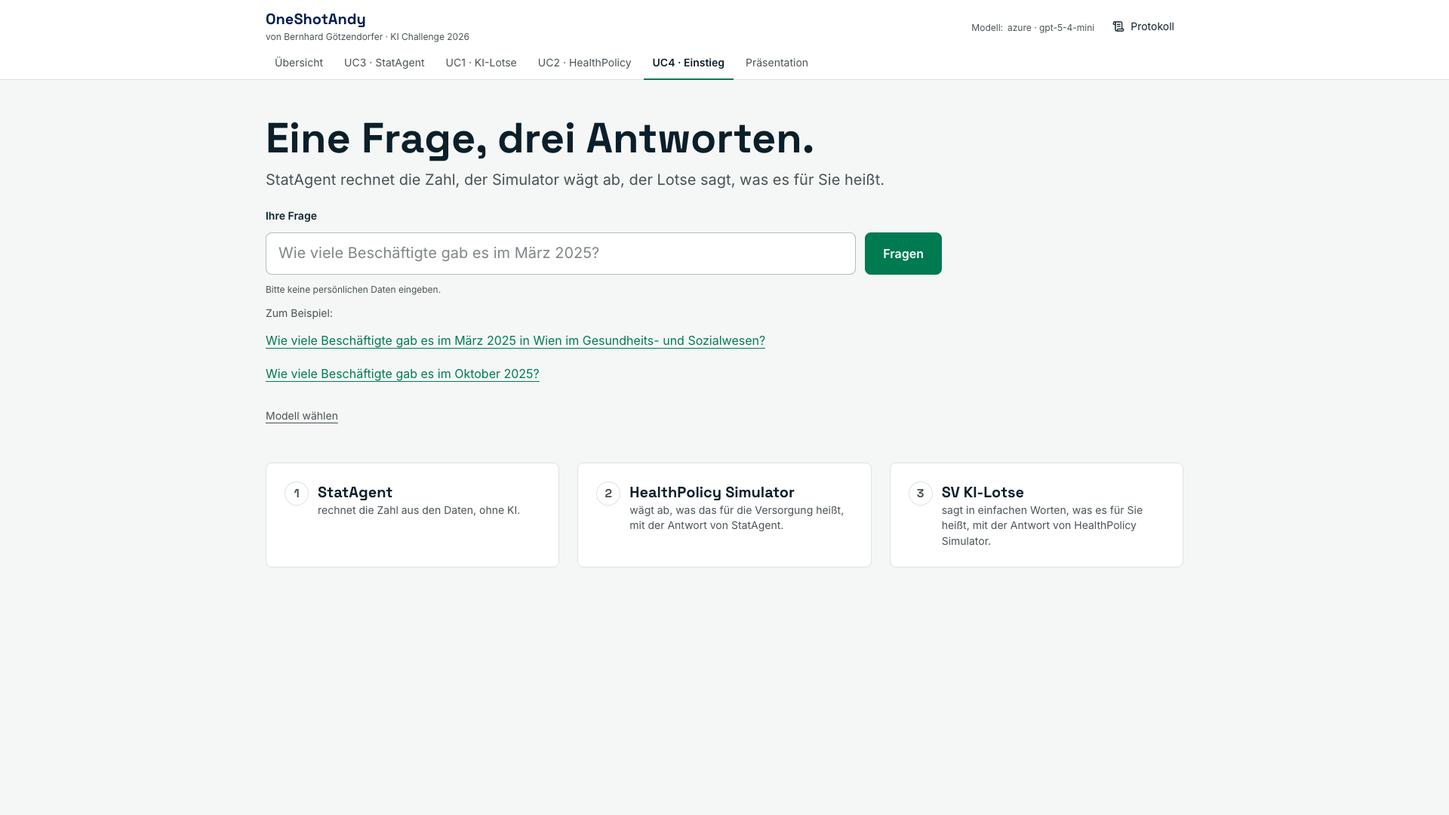
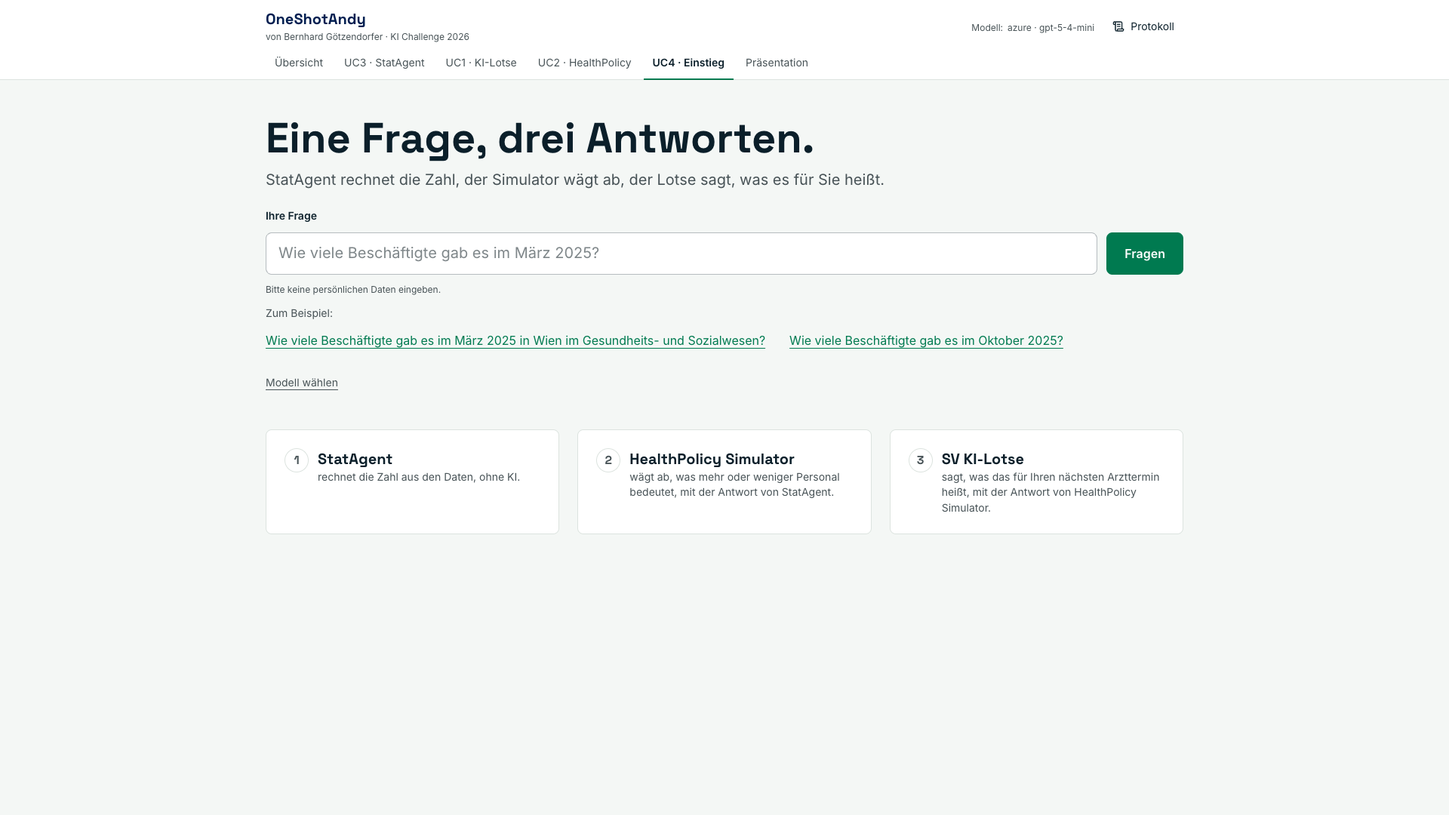
docs(e5): D4 mit der Knopf-Frage, Stand der Kette online gemessen, SC03 und SC11 von live (#141)

diff --git a/docs/praesentation/demo-drehbuch.md b/docs/praesentation/demo-drehbuch.md
@@ -26,7 +26,7 @@ Die Zeiten sind Richtwerte, gemessen wird in der Probe. Wichtig ist die Reihenfo
 
 - **Online über Hotspot** (Owner 05.11.2026). Vorführ-Adresse mit Passwort, Modell Azure. Einen Lauf ohne Netz gibt es nicht. Die Adresse meldet die Lane Vorführung, sie steht nicht im Repo.
 - **Datenbank der Vorführung:** eine eigene Kopie der Abgabe-Datenbank, nie `statistik` selbst, auch nach 09:00 nicht. Die Abgabezahlen sind auf der eigenen Datenbank gerechnet, online läuft nur die Vorführung. So bleibt die Abgabe jederzeit nachrechenbar.
-- **Klickwege für D1 und D2:** Beide laufen im Browser auf der Vorführ-Adresse. Wörtlich trägt sie Bernhard hier ein, sobald die Lane Vorführung Pfad und Texte gemeldet hat (`docs/betrieb/vorfuehrung.md`). Bis dahin zeigt dieses Drehbuch den Weg im Terminal.
+- **Klickwege für D1 und D2:** Beide laufen im Browser auf der Vorführ-Adresse, Seite `/uc3/auftrag` (`docs/betrieb/vorfuehrung.md`). Die Knöpfe stehen hier wie im Code auf main, der Durchlauf auf dem aktuellen Stand kommt in der Probe. Der Weg im Terminal bleibt die Reserve.
 - **Was die Zahlen im D2 zeigen:** D1 läuft vor D2. Die Zahlen nachher kommen aus der Probe auf dem Vorschlag, ein Monat auf dem neuen Regelsatz wird live nicht gerechnet. Offene Vorschläge nacheinander ablehnen, zwei können auf denselben neuen Regelsatz zielen (#169).
 - **Zwischen zwei Durchläufen:** Zurücksetzen nach `docs/betrieb/vorfuehrung.md`, damit die Proben nicht in der Vorführung stehen.
 
@@ -38,8 +38,8 @@ Standard ist Oktober 2025. Alternative ist März 2025. Bernhard wählt vorab ein
 
 - Sagt Bernhard (Einstieg auf `/uc3`): „24 Monatslieferungen, eine Zahl pro Monat. Zwei Monate hat das Programm angehalten, statt sie zu veröffentlichen. Das zeige ich Ihnen zuerst.“
 
-- CLI-Weg (Standard): `uv run uc3 lauf --lieferung 2025-10`, danach `uv run uc3 laeufe`. Bericht: `abgabe/qualitaetsberichte/2025-10.md`. Alternative: `--lieferung 2025-03` und `abgabe/qualitaetsberichte/2025-03.md`.
-- Klickweg: Seite `/uc3`, dann der gewählte Monat. Dort steht der Qualitätsbericht.
+- Reserve im Terminal: `uv run uc3 lauf --lieferung 2025-10`, danach `uv run uc3 laeufe`. Bericht: `abgabe/qualitaetsberichte/2025-10.md`. Alternative: `--lieferung 2025-03` und `abgabe/qualitaetsberichte/2025-03.md`.
+- Klickweg: `/uc3/auftrag`, unten „Einen Monat rechnen“, Monat wählen, dann „Monat und Qualitätsbericht ansehen“. Gemessen für Oktober 2025: 92,9 s und 102,0 s (Lane Vorführung).
 - Sagt Bernhard (Oktober 2025): „Es kommen 313.154 gegen 394.200 im Vormonat (F17). 78.949 Verhältnisse fehlen in der Lieferung (F11). Das Programm hält den Monat an und markiert ihn als vorläufig.“
 - Sagt Bernhard (März 2025): „März 2025 hat zwei Fehler auf einmal. 1.663 Zeilen sind doppelt (F8), und die freien Dienstverträge fehlen ganz, 1.492 Verhältnisse (F9). Das Programm hält den Monat an und markiert ihn als vorläufig.“
 - Jury muss sehen (Oktober 2025):
@@ -61,7 +61,7 @@ Folie 8 öffnen (`/praesentation?folie=8`, Tab liegt bereit), Stichpunkte: Skrip
 
 ### D2 Änderung per Sprache (5:00–9:30)
 
-Bewertet in Bereich 5 („Live-Änderung per Sprache gelingt“, 20 Punkte). „Per Sprache“ heißt: Die Anweisung ist ein Satz in Alltagssprache, den Bernhard ins Terminal tippt (Owner-Wort 05.11.2026 19:3x).
+Bewertet in Bereich 5 („Live-Änderung per Sprache gelingt“, 20 Punkte). „Per Sprache“ heißt: Die Anweisung ist ein Satz in Alltagssprache, den Bernhard tippt (Owner-Wort 05.11.2026 19:3x).
 
 **Datenbank:** Die ganze Demo läuft gegen die Kopie `statistik_vorfuehrung` (`UC3_DATABASE_URL` auf die Kopie), nie gegen `statistik`. Die Freigabe schreibt einen Commit; deshalb läuft D2 auf einem eigenen Demo-Branch im Checkout des Vortragsrechners, der Commit wird nie gepusht. Geprobt wird vorher nur auf `statistik_probe`.
 
@@ -75,25 +75,27 @@ Bewertet in Bereich 5 („Live-Änderung per Sprache gelingt“, 20 Punkte). „
 - Sagt Bernhard (Entwurf, Wortlaut stimmt er um 07:00 ab, FAQ Frage 11): „Die drei Aufträge der Aufgabe habe ich in Sätzen gestellt, die Agenten schrieben Vorschläge. Die Freigaben hat in meinem Auftrag eine KI-Sitzung eingegeben, ich habe sie um 18:22 mit meinem Namen bestätigt. Das steht offen im Protokoll.“
 - Sagt Bernhard (bei 1): „Der Gesamtbestand bleibt bei 392.236. Die Kategorien verschieben sich, zum Beispiel Angestellte von 0 auf 236.961.“
 
-**Teil 2, live per Sprache (6:00–9:30):** Laut Aufgabenstellung gibt die Jury eine kleine, unbekannte Änderung vor. Bernhard fragt: „Nennen Sie mir eine Regel, die ich jetzt ändern soll.“ Er wiederholt den Wunsch der Jury in einem Satz und tippt diesen Satz. Die vier geübten Änderungen im Fragenkatalog Teil B decken die naheliegenden Wünsche ab (Altersgrenze, Geburtsmonat 13, Schwelle Bestandsrückgang, Spaltentausch). Nennt die Jury nichts, nimmt Bernhard B2.
+**Teil 2, live per Sprache (6:00–9:30):** Laut Aufgabenstellung gibt die Jury eine kleine, unbekannte Änderung vor. Bernhard fragt: „Nennen Sie mir eine Regel, die ich jetzt ändern soll.“ Er wiederholt den Wunsch der Jury in einem Satz und tippt diesen Satz. Die vier geübten Änderungen im Fragenkatalog Teil B decken die naheliegenden Wünsche ab (Altersgrenze, Geburtsmonat 13, Schwelle Bestandsrückgang, Spaltentausch). Nennt die Jury nichts, nimmt Bernhard den Standard-Satz unten.
 
-1. Im Terminal tippen: `uv run uc3 agent "<Satz>" --probe JJJJ-MM` und Enter. Im Satz den Zielwert nennen. Ersatz B2: `uv run uc3 agent "Rechne bei Geburtsmonat 13 nur mit der Differenz der Jahre (Jahresdifferenz) statt mit dem 1. Juli." --probe 2026-06`. Der Agent schreibt einen Vorschlag. Solange der Fix aus !150 nicht auf main ist, nie mit `--probe 2025-03` oder `--probe 2025-10` proben: Dort zeigt die Probe eine falsche Gesamtzahl.
-2. `uv run uc3 vorschlag zeigen <id>`: Regel-Unterschied und Zahlen vorher und nachher. Bei B2: `R5_alter`, `geburtsmonat_13` von `ersatz:07-01` auf `jahresdifferenz`.
-3. `uv run uc3 freigabe <id> --name "Bernhard Götzendorfer"`, dann `uv run uc3 protokoll --zeigen`.
+**Standard-Satz:** „Beamte zählen nicht mehr mit“, Monat Juli 2026. Die Seite zeigt: Gesamt 407.604 → 395.315, „Gesamt ändert sich um −12.289“, Beamte 12.289 → 0, Angestellte und Arbeiter gleich. Der Vorschlag dauert rund 145 s. Rücknahme: neuer Auftrag „Nimm Vorschlag <n> zurück“, +12.289, 93 s. Einmal gemessen von der UI-Regie, 05.11.2026 22:44 bis 22:56, noch vor !229 und !234. Der Satz braucht !150: Ausschluss und Rücknahme stehen noch nicht auf main. Ist !150 beim Merge-Stopp nicht auf main, gilt um 06:45 Teil 1 allein.
+
+1. `/uc3/auftrag`: Satz tippen, Monat für die Zahlen wählen, „Vorschlag schreiben lassen“. Im Satz den Zielwert nennen. Bei einer Änderung an Geburtsmonat 13 Juni 2026 wählen. Reserve im Terminal: `uv run uc3 agent "<Satz>" --probe JJJJ-MM`, zum Beispiel B2: `uv run uc3 agent "Rechne bei Geburtsmonat 13 nur mit der Differenz der Jahre (Jahresdifferenz) statt mit dem 1. Juli." --probe 2026-06`. Der Agent schreibt einen Vorschlag. Solange der Fix aus !150 nicht auf main ist, nie mit `--probe 2025-03` oder `--probe 2025-10` proben: Dort zeigt die Probe eine falsche Gesamtzahl.
+2. „Vorher und nachher ansehen, dann entscheiden“: Regel-Unterschied und Zahlen vorher und nachher. Reserve: `uv run uc3 vorschlag zeigen <id>`. Bei B2: `R5_alter`, `geburtsmonat_13` von `ersatz:07-01` auf `jahresdifferenz`.
+3. Vor- und Nachnamen eintragen, freigeben. Die Seite nennt den Commit. Reserve: `uv run uc3 freigabe <id> --name "Bernhard Götzendorfer"`, dann `uv run uc3 protokoll --zeigen`.
 
 - Sagt Bernhard (bei 1): „Ich sage dem Agenten in einem Satz, was er ändern soll.“
-- Sagt Bernhard (bei 2): „Hier ist, was sich ändern würde, vorher und nachher. Wirksam wird es erst mit meinem Namen.“ Bei B2 zusätzlich: „Der Gesamtbestand bleibt gleich, im Juni 2026 wechseln wenige Verhältnisse die Altersgruppe.“
-- Rückfall Agent: Kommt „Kein Vorschlag“, sendet Bernhard den Satz einmal neu und nennt den Zielwert ausdrücklich. Kommt er wieder, sagt er „Das zeige ich Ihnen mit einer geübten Änderung“ und nimmt B2. Scheitert auch das, bleibt es beim Rückblick aus Teil 1.
-- Will die Jury etwas, das eine neue Regel oder Code braucht (keine Änderung eines Parameters), sagt Bernhard: „Das wäre eine neue Regel. Der Agent schlägt sie vor, freigeben würde ich sie erst nach einer Probe.“ und nimmt B2.
+- Sagt Bernhard (bei 2): „Hier ist, was sich ändern würde, vorher und nachher. Wirksam wird es erst mit meinem Namen.“ Bei B2 zusätzlich: „Der Gesamtbestand bleibt gleich. Die Regel ändert nur das Alter, diese Tabelle zählt Beschäftigungskategorien, deshalb bewegt sich hier keine Zahl.“
+- Rückfall Agent: Kommt „Kein Vorschlag“, sendet Bernhard den Satz einmal neu und nennt den Zielwert ausdrücklich. Kommt er wieder, sagt er „Das zeige ich Ihnen mit einer geübten Änderung“ und nimmt den Standard-Satz. Eine Rückfrage statt eines Vorschlags ist möglich, das ist nicht gemessen. Scheitert auch das, bleibt es beim Rückblick aus Teil 1.
+- Will die Jury etwas, das eine neue Regel oder Code braucht (keine Änderung eines Parameters), sagt Bernhard: „Das wäre eine neue Regel. Der Agent schlägt sie vor, freigeben würde ich sie erst nach einer Probe.“ und nimmt den Standard-Satz.
 - Azure antwortet nicht: Hotspot wechseln (10 s), Satz noch einmal. Geht es dann nicht, reicht Teil 1 als Beleg, und Bernhard sagt das offen.
 
 **Jury muss sehen:**
 - Die Anweisung als Satz in Alltagssprache.
-- Regel-Diff und Zahlen vorher und nachher (F19 für Auftrag 1, live für B2).
+- Regel-Diff und Zahlen vorher und nachher (F19 für Auftrag 1, live für den Standard-Satz).
 - Freigabe mit Vor- und Nachname, „Team“ wird abgelehnt (`shared/py/plattform/freigabe.py`, `pruefe_name`).
 - Eintrag im Protokoll (F26).
 
-**Stand der Proben:** 05.11.2026 17:56 bis 17:58 auf main 321a7176: B1, B2, B3 ohne Vorschlag oder abgebrochen. 18:20 bis 18:25 mit dem Code von !50: B2 dreimal von drei gültig. Das war mit 2025-03. Am selben Abend maß die UC3-Lane dort 396.762 → 395.292 (−1.470) bei einer reinen Altersänderung: In der Probe fehlen die Fortschreibungen von 2025-03 und 2025-10, der Fix kommt mit !150, die Abgabe ist nicht betroffen. Mit 2026-06 bleibt die Gesamtzahl bei 403.301 (einmal gemessen von der UC3-Lane, 22:40, Commit d888e09, bis zum Vorschlag), dreimal gegen die Vorführ-Instanz ist noch offen. Juli bis Dezember zeigen bei B2 keinen Unterschied, das ist fachlich richtig.
+**Stand der Proben:** 05.11.2026 17:56 bis 17:58 auf main 321a7176: B1, B2, B3 ohne Vorschlag oder abgebrochen. 18:20 bis 18:25 mit dem Code von !50: B2 dreimal von drei gültig. Das war mit 2025-03. Am selben Abend maß die UC3-Lane dort 396.762 → 395.292 (−1.470) bei einer reinen Altersänderung: In der Probe fehlen die Fortschreibungen von 2025-03 und 2025-10, der Fix kommt mit !150, die Abgabe ist nicht betroffen. Mit 2026-06 bleibt die Gesamtzahl bei 403.301 (einmal gemessen von der UC3-Lane, 22:40, Commit d888e09, bis zum Vorschlag). Im Browser zeigt die Tabelle dort keine bewegte Zahl, sie zählt Beschäftigungskategorien. Juli bis Dezember zeigen bei B2 keinen Unterschied, das ist fachlich richtig.
 
 - Nie `freigabe` üben: Es committet ins Repo, einen Reset gibt es nicht. Proben nur gegen `statistik_probe`.
 - Entscheid in `probe.md` (Fr 06:45): Teil 1 allein oder Teil 1 und Teil 2.
@@ -144,9 +146,9 @@ Fragt die Jury so etwas, sagt Bernhard: „Das zeige ich Ihnen mit einer Abfrage
 
 ### D4 Gemeinsamer Einstieg (13:00–14:00)
 
-- Die Wien-Frage in `/uc4`: „Wie viele Menschen arbeiten in Wien im Gesundheits- und Sozialwesen (März 2025), und was heißt das für Wartezeiten beim Arzt?“
-- Sollwert für UC3: **7.498** Beschäftigungsverhältnisse (F18), Wien, ÖNACE 2025 Abschnitt R (Gesundheits- und Sozialwesen), Stichtag 31.03.2025, mit Beleg. UC2 liefert die Abwägung, UC1 die Erklärung in einfacher Sprache.
-- Die Frage stammt aus dem Abgleich der Review-Bank. Die Wartezeiten selbst kann UC3 nicht beantworten, es kennt nur Beschäftigte.
+- Die Wien-Frage in `/uc4` mit einem Klick auf das erste Beispiel: „Wie viele Beschäftigte gab es im März 2025 in Wien im Gesundheits- und Sozialwesen?“ Sie steht wörtlich auf Folie 9.
+- Sollwert für UC3: **7.498** Beschäftigungsverhältnisse (F18), Wien, ÖNACE 2025 Abschnitt R (Gesundheits- und Sozialwesen), Stichtag 31.03.2025, mit Beleg. Der Simulator sagt, was mehr oder weniger Personal für Wartezeit und Betreuung heißt, der Lotse sagt es für den nächsten Arzttermin (fester Text, an der Karte steht „Fester Text“). Dauer online 9 bis 12 s.
+- **Nicht „Wartezeiten“ in die Frage nehmen.** Dann läuft der Simulator über das Rechenmodell und nennt „Wartezeit −22,2 %, Mehrkosten 128,2 Mio. Euro pro Jahr“ (online gemessen 05.11.2026 23:08, 22 s). Das ist eine Schätzung, kein Beleg aus dem Register. Fragt die Jury danach, sagt Bernhard: „Das ist ein Rechenmodell ohne KI. Es schätzt das fünfte Jahr, je nach Annahmen −62,8 % bis −8,6 %. Das ist keine gemessene Zahl.“
 - Was von UC1 und UC2 läuft, steht im Tagesstand des Fragenkatalogs (Teil C, „Läuft der gemeinsame Einstieg schon?“). Bernhard sagt nur, was dort steht.
 - Nur wenn die Wien-Frage um 06:45 echt läuft (nicht im Testmodus). Sonst entfällt D4 ohne Ersatz.
 - **Entscheid am Fr 06:45.** Wer entscheidet: Lead mit Bernhard. Ergebnis in `probe.md` eintragen.
@@ -185,7 +187,7 @@ Jeder Punkt wird abgehakt, sobald er geprüft ist. Uhrzeit nur aus der Uhr (`TZ=
 - [ ] D1: Monat gewählt (2025-10 oder 2025-03) und in `probe.md` eingetragen.
 - [ ] D3: Die acht geprüften Fragen auf `/uc3/fragen` und mit `uv run uc3 frage "…"` geprobt, jede Zahl gegen die Sollzahl der Tabelle. SQL A1 bis A3 als Rückfall bereit, `<regelstand>` eingesetzt.
 - [ ] D4: Sollwert 7.498 (F18) gegen die Abfrage im Belegregister geprüft. Testmodus-Ansage bereit.
-- [ ] D2: `uv run uc3 vorschlag zeigen 24` und `uv run uc3 protokoll --zeigen` laufen auf dem Vortragsrechner. B2 nur, wenn es mit `--probe 2026-06` dreimal gegen `statistik_vorfuehrung` geklappt hat. Nie `freigabe` geübt.
+- [ ] D2: `uv run uc3 vorschlag zeigen 24` und `uv run uc3 protokoll --zeigen` laufen auf dem Vortragsrechner. B2 zeigt auf der Seite keine bewegte Zahl (im Browser gemessen, Lane Vorführung). Nie `freigabe` geübt.
 - [ ] Datenbank: `UC3_DATABASE_URL` zeigt auf `statistik_vorfuehrung`, nicht auf `statistik`. Prüfung ohne Wert: Datenbankname im Kopf der App oder `uv run uc3 laeufe` liefert die 24 Läufe der Kopie. Checkout steht auf einem Demo-Branch, der für diesen Lauf frisch ab main angelegt ist.
 - [ ] Protokolleintrag der Freigabe von Auftrag 1 (05.11.2026 16:54) gefunden, Fenster für den Rückblick bereit.
 - [ ] Entscheid D4 um 06:45 getroffen und in `probe.md` eingetragen.

diff --git a/docs/praesentation/fragenkatalog.md b/docs/praesentation/fragenkatalog.md
@@ -197,7 +197,9 @@ Der Vorschlag kommt vom Modell. Welche Regel und welchen Wert es wählt, zeigt `
 
 **Was der Vorschlag ändert:** Regel `R5_alter`, Parameter `geburtsmonat_13` von `ersatz:07-01` auf `jahresdifferenz`. Der Agent darf für diesen Parameter nur `jahresdifferenz` oder `unbekannt` vorschlagen (`uc3/statagent/agenten/koordinator.py`, Zeile 81). Einen anderen Ersatztag wie den 1. Jänner weist er ab.
 
-**Erwartete Wirkung:** Der Gesamtbestand ändert sich nie, nur das Alter einzelner Verhältnisse mit Monat 13. Für August 2024 gilt Jahresdifferenz gleich Ersatztag 1. Juli, der Beispielbericht bleibt exakt (F4). Im Juni 2026 liegt der Stichtag vor dem 1. Juli: Mit Jahresdifferenz sind diese Verhältnisse ein Jahr älter, der Vorschlag zeigt wenige verschobene Altersgruppen, der Gesamtbestand bleibt 403.301 (einmal gemessen von der UC3-Lane, 05.11.2026 22:40, Commit d888e09, bis zum Vorschlag). Dreimal gegen die Vorführ-Instanz ist noch offen. Juli bis Dezember zeigen keinen Unterschied, das ist fachlich richtig.
+**Erwartete Wirkung:** Der Gesamtbestand ändert sich nie, nur das Alter einzelner Verhältnisse mit Monat 13. Für August 2024 gilt Jahresdifferenz gleich Ersatztag 1. Juli, der Beispielbericht bleibt exakt (F4). Im Juni 2026 liegt der Stichtag vor dem 1. Juli: Mit Jahresdifferenz sind diese Verhältnisse ein Jahr älter, der Vorschlag zeigt wenige verschobene Altersgruppen, der Gesamtbestand bleibt 403.301 (einmal gemessen von der UC3-Lane, 05.11.2026 22:40, Commit d888e09, bis zum Vorschlag). Juli bis Dezember zeigen keinen Unterschied, das ist fachlich richtig.
+
+**Auf der Seite:** Die Tabelle von „Vorher und nachher ansehen“ zählt Beschäftigungskategorien. In Juni und Juli 2026 zeigt sie überall gleiche Werte und den Satz „Bei den Beschäftigungskategorien ändert die Probe keine Zahl, die Gesamtzahl bleibt gleich“ (im Browser gemessen, Lane Vorführung; der Vorschlag dauert rund 145 s). Das ist kein Fehler, sieht aber nach nichts aus: B2 nur nehmen, wenn die Jury genau das wünscht.
 
 **Falle:** Mit `--probe 2025-03` zeigt die Probe 396.762 → 395.292 (−1.470), obwohl sich nur das Alter ändert. In der Probe fehlen die Fortschreibungen von 2025-03 und 2025-10. Der Fix kommt mit !150, die Abgabe ist nicht betroffen.
 
@@ -350,7 +352,7 @@ Der Vorschlag kommt vom Modell. Welche Regel und welchen Wert es wählt, zeigt `
 **Kurzantwort:** Wir nennen fünf Grenzen offen.
 Erstens sind die Daten synthetisch.
 Zweitens hängt das Alter bei Geburtsmonat 13 vor Juli von der Antwort der Fachabteilung auf Rückfrage R1 ab (F4).
-Drittens sind die Pensionsmeldungen der Träger nicht eingelesen.
+Drittens fehlen bei den Pensionen die öffentlich Bediensteten, die frühere BVA meldet keine. Die Zahlen sind vorläufig, bis sie mit Namen freigegeben sind.
 Viertens zählen wir auf ÖNACE-Abschnitt und Bundesland, nicht bis zum 5-Steller und nicht nach Bezirk oder Gemeinde. Die Tabelle für weitere Ebenen ist angelegt.
 Fünftens steht die Altersgrenze 110 ohne amtlichen Standard. Sie ist ein Parameter und lässt sich ändern (F5).
 
@@ -378,7 +380,7 @@ Fünftens steht die Altersgrenze 110 ohne amtlichen Standard. Sie ist ein Parame
 
 #### Stand (was vom Zielbild auf main ist)
 
-Code gemessen am 05.11.2026 18:54 auf main `1a8c645`. Betrieb gemessen am 05.11.2026 19:40 und 20:00 auf der Online-Demo (POST `/api/uc4/frage` mit der Wien-Frage), dazu der Prüfpunkt des Leads um 20:00. Vor Fr 07:00 noch einmal messen. Nicht gemessen heißt: nicht behaupten.
+Code gemessen am 05.11.2026 18:54 auf main `1a8c645`. Betrieb gemessen am 05.11.2026 23:04 bis 23:08 auf der Online-Demo, main `11b5ff5` (POST `/api/uc4/frage`), dazu der Prüfpunkt des Leads um 20:00. Fr 05:00 noch einmal messen. Nicht gemessen heißt: nicht behaupten.
 
 | Teil des Zielbilds | Stand auf main | Beleg |
 |---|---|---|
@@ -389,10 +391,13 @@ Code gemessen am 05.11.2026 18:54 auf main `1a8c645`. Betrieb gemessen am 05.11.
 | UC1-Adapter (Lotse) | registriert | `uc1/pyproject.toml`, `uc1.uc4:router_adapter` |
 | Freigabe mit Namen in UC2 | im Code | `uc2/src/uc2/verhandlung/freigabe.py`, `web/app/api/uc2/faelle/[id]/freigabe/route.ts` |
 | Freigabe mit Namen in UC1 | nicht gefunden | keine Fundstelle auf main |
-| Wien-Frage liefert drei Antworten | online ja: StatAgent 7.498 mit Beleg (Lauf 105, vorläufig), Simulator und Lotse mit Modell gpt-5-4-mini, beide mit dem Beleg aus UC3; nichts fehlt; 9 bis 15 s | gemessen 19:40, 19:58 (Lead) und 20:00 |
+| Wien-Frage liefert drei Antworten | online ja: StatAgent 7.498 mit Beleg (Lauf 105, vorläufig), Simulator mit Modell gpt-5-4-mini, Lotse fester Text, beide mit dem Beleg aus UC3; nichts fehlt; 9 bis 12 s | gemessen 23:04, zweimal |
+| Frage ohne Zahl | „Wie heißt der Hund von Pippi Langstrumpf?“: Die Kette stoppt bei StatAgent, ohne Zahl, 3 s | gemessen 23:06 |
+| Frage mit „Wartezeiten“ | Mit Wien und März 2025: Der Simulator rechnet über das Rechenmodell, Wartezeit −22,2 %, 128,2 Mio. Euro pro Jahr, 22 s. Nicht vorführen. Ohne Monat und Ort: StatAgent fragt zurück, welchen Begriff es erklären soll, die Kette stoppt | gemessen 23:06 und 23:08 |
+| „Zugänge Oktober 2024“ | Öffentliche Adresse: keine Zahl, Hinweis auf die lokale Auswertung. Vorführ-Instanz nicht gemessen | gemessen 23:07 und 23:08 |
 | Live-Änderung per Agent (D2 Teil 2) | Endserie läuft, MR !150 Stand 20:00 noch rot; Teil 2 nur, wenn beim Freeze auf main | Prüfpunkt Lead 20:00 |
 | Klassifikation bis 5-Steller und Gemeinden | kommt gegen 23:00 als Klassifikation; gezählt wird weiter nach Abschnitt und Bundesland (Rohdaten haben nur das) | Prüfpunkt Lead 20:00 |
-| Pensionsmeldungen der Träger | nicht eingelesen | Prüfpunkt Lead 20:00, C14 |
+| Pensionsmeldungen der Träger | eingelesen: 28 von 28 Dateien, 9 Formate, 394 Summen ohne Abweichung. Online 2025 im Jahresdurchschnitt 2.584.909, vorläufig | `docs/uc3/pensionen-pruefbericht.md`, online gemessen 23:16 |
 | Lotse, verdeckter Test | Trefferquote 8 von 10, Träger richtig 6 von 10, Grenzen erkannt 3 von 8; Verbesserung eingespielt, Nachmessung offen | Prüfpunkt Lead 20:00 |
 | Simulator ohne passenden Zeitungsartikel | sagt offen „Modellannahme“, erfindet keinen Beleg | Prüfpunkt Lead 20:00, Messung E0 19:50 |
 | Online-Demo, Budget | 1.000 Modellaufrufe je Tag | Prüfpunkt Lead 20:00 |

diff --git a/docs/praesentation/screens-manifest.md b/docs/praesentation/screens-manifest.md
@@ -7,7 +7,7 @@ Je Bild stehen Herkunft (Route, Commit, Lauf) und Art (live, Testdaten, Aufzeich
 |---|---|---|---|---|---|---|---|---|---|---|---|
 | SC01 | Monatsläufe: 24 Monate mit Status | 3 | ja | 1920 | 1080 | `b379e5c461b4b28b`[^SC01] | /uc3 | fd936b3 | Online-Demo, Stand 05.11.2026 | live | 2026-11-05T22:11+01:00 |
 | SC02 | Eine Regel mit Gültigkeit, Begründung und Freigabe | 4 | ja | 1920 | 1080 | `c08fe54b92e8b636`[^SC02] | /uc3/berichte/regeln | fd936b3 | Online-Demo, Stand 05.11.2026 | live | 2026-11-05T22:11+01:00 |
-| SC03 | Gemeinsamer Einstieg: eine Frage an alle drei | 1 | ja | 1920 | 1080 | `250966055cd39cd6`[^SC03] | /uc4 | fd936b3 | Online-Demo, Stand 05.11.2026 | live | 2026-11-05T22:11+01:00 |
+| SC03 | Gemeinsamer Einstieg: eine Frage an alle drei | 1 | ja | 1920 | 1080 | `1e8b950175287b1c`[^SC03] | /uc4 | 11b5ff5 | Online-Demo, Stand 05.11.2026 | live | 2026-11-05T23:13+01:00 |
 | SC04 | Qualitätsbericht August 2024, der Monat der Vorlage | 5 | ja | 1920 | 1080 | `a16262ed95ad2269`[^SC04] | /uc3/berichte/2024-08 | fd936b3 | Online-Demo, Stand 05.11.2026 | live | 2026-11-05T22:11+01:00 |
 | SC05 | Zwei Branchenlisten mit Gültigkeit | 7 | ja | 1920 | 1080 | `48a9db9d2fddce06`[^SC05] | /uc3/klassifikationen | fd936b3 | Online-Demo, Stand 05.11.2026 | live | 2026-11-05T22:11+01:00 |
 | SC06 | Qualitätsbericht März 2025 mit Auffälligkeiten | 6 | ja | 1920 | 1080 | `cbccd9f9f81987fa`[^SC06] | /uc3/berichte/2025-03 | fd936b3 | Online-Demo, Stand 05.11.2026 | live | 2026-11-05T22:11+01:00 |
@@ -15,14 +15,14 @@ Je Bild stehen Herkunft (Route, Commit, Lauf) und Art (live, Testdaten, Aufzeich
 | SC08 | Regel R5_alter als Daten | 8 | ja | 1920 | 1080 | `cdbfac747cf62de2`[^SC08] | /uc3/berichte/regeln | fd936b3 | Online-Demo, Stand 05.11.2026 | live | 2026-11-05T22:11+01:00 |
 | SC09 | Übersicht: drei Use Cases, ein Kern | 2 | ja | 1920 | 1080 | `16719f54a2b32a07`[^SC09] | / | fd936b3 | Online-Demo, Stand 05.11.2026 | live | 2026-11-05T22:11+01:00 |
 | SC10 | Erledigte Freigabe mit Name und Wirkung | 10 | ja | 1920 | 1080 | `5a0035f8ca340db4`[^SC10] | /uc3/freigaben/26 | fd936b3 | Online-Demo, Stand 05.11.2026 | live | 2026-11-05T22:11+01:00 |
-| SC11 | Gemeinsamer Einstieg mit der Wien-Frage: drei Antworten, 7.498 mit Beleg | 9 | ja | 1920 | 1080 | `25542604c2c87b42`[^SC11] | /uc4 | fd936b3 | Online-Demo, Stand 05.11.2026 | live | 2026-11-05T22:11+01:00 |
+| SC11 | Gemeinsamer Einstieg mit der Wien-Frage: drei Antworten, 7.498 mit Beleg | 9 | ja | 1920 | 1080 | `bbc601eacc873fa9`[^SC11] | /uc4 | 11b5ff5 | Online-Demo, Stand 05.11.2026 | live | 2026-11-05T23:11+01:00 |
 | SC12 | Agent-Vorschlag mit Diff vor der Freigabe | 4 | ja | 1920 | 1080 | `4da0590773104b52`[^SC12] | /uc3/freigaben/24 | fd936b3 | Online-Demo, Stand 05.11.2026 | live | 2026-11-05T22:11+01:00 |
 
 Stand: 12/12 vorhanden, 12/12 gültig
 
[7 lines of base64/hex data omitted]
@@ -30,5 +30,5 @@ Stand: 12/12 vorhanden, 12/12 gültig
[6 lines of base64/hex data omitted]

diff --git a/docs/praesentation/screens-sichtpruefung.md b/docs/praesentation/screens-sichtpruefung.md
@@ -6,7 +6,7 @@ Jedes Bild wird von einer zweiten Person oder einem unabhängigen Prüfer angese
 |---|---|---|---|---|---|---|
 | SC01 | Agent UI-Regie, nicht Mensch | 2026-11-05 | nein | nein, Daten synthetisch laut Aufgabe | Geprüft bei 1000 px Breite, Kleinstschrift nicht lesbar geprüft | ok |
 | SC02 | Agent UI-Regie, nicht Mensch | 2026-11-05 | nein | nein, Daten synthetisch laut Aufgabe | Geprüft bei 1000 px Breite, Kleinstschrift nicht lesbar geprüft | ok |
-| SC03 | Agent UI-Regie, nicht Mensch | 2026-11-05 | nein | nein, Daten synthetisch laut Aufgabe | Alter /uc4-Stand: abgeschnittenes Feld, „Text: gpt-5-4-mini“, Lotse ohne Bedingung. Neu aufnehmen nach !192 und !210. Geprüft bei 1000 px Breite | offen |
+| SC03 | Agent ui-regie-e6, nicht Mensch | 2026-11-05 | nein | nein, Daten synthetisch laut Aufgabe | Neu aufgenommen 05.11.2026 23:13 auf main 11b5ff5, oben rechts steht das Modell. Desktop bei 900 px angesehen. Mobil-Bild nicht angesehen | ok |
 | SC04 | Agent UI-Regie, nicht Mensch | 2026-11-05 | nein | nein, Daten synthetisch laut Aufgabe | Geprüft bei 1000 px Breite, Kleinstschrift nicht lesbar geprüft | ok |
 | SC05 | Agent UI-Regie, nicht Mensch | 2026-11-05 | nein | nein, Daten synthetisch laut Aufgabe | Geprüft bei 1000 px Breite, Kleinstschrift nicht lesbar geprüft | ok |
 | SC06 | Agent UI-Regie, nicht Mensch | 2026-11-05 | nein | nein, Daten synthetisch laut Aufgabe | Geprüft bei 1000 px Breite, Kleinstschrift nicht lesbar geprüft | ok |
@@ -14,9 +14,9 @@ Jedes Bild wird von einer zweiten Person oder einem unabhängigen Prüfer angese
 | SC08 | Agent UI-Regie, nicht Mensch | 2026-11-05 | nein | nein, Daten synthetisch laut Aufgabe | Geprüft bei 1000 px Breite, Kleinstschrift nicht lesbar geprüft | ok |
 | SC09 | Agent UI-Regie, nicht Mensch | 2026-11-05 | nein | nein, Daten synthetisch laut Aufgabe | Geprüft bei 1000 px Breite, Kleinstschrift nicht lesbar geprüft | ok |
 | SC10 | Agent UI-Regie, nicht Mensch | 2026-11-05 | nein | nein, Daten synthetisch laut Aufgabe | Geprüft bei 1000 px Breite, Kleinstschrift nicht lesbar geprüft | ok |
-| SC11 | Agent UI-Regie, nicht Mensch | 2026-11-05 | nein | nein, Daten synthetisch laut Aufgabe | Alter /uc4-Stand: abgeschnittenes Feld, „Text: gpt-5-4-mini“, Lotse ohne Bedingung. Neu aufnehmen nach !192 und !210. Geprüft bei 1000 px Breite | offen |
+| SC11 | Agent ui-regie-e6, nicht Mensch | 2026-11-05 | nein | nein, Daten synthetisch laut Aufgabe | Neu aufgenommen 05.11.2026 23:11 auf main 11b5ff5. Desktop bei 1100 px angesehen. Mobil-Bild nicht angesehen | ok |
 | SC12 | Agent UI-Regie, nicht Mensch | 2026-11-05 | nein | nein, Daten synthetisch laut Aufgabe | Geprüft bei 1000 px Breite, Kleinstschrift nicht lesbar geprüft | ok |
 
-Offene Befunde: 2 (SC03, SC11)
+Offene Befunde: 0
 
 Die Bilder in `screens/mobil/` sind nicht angesehen.

diff --git a/docs/praesentation/kriterien-karte.md b/docs/praesentation/kriterien-karte.md
@@ -8,7 +8,7 @@ Sechs Bereiche, je 20 von 120 Punkten. Die Spalte „Raster“ steht wörtlich w
 |---|---|---|---|---|---|
 | 1 Datenmanagement | Mindest | liest alle Lieferungen korrekt ein, Datenmodell nach Vorgabe | **erfüllt** | 24 Lieferungen, 10.152.292 Zeilen (F3). Tabellen nach Anhang B. | `/uc3`, `uc3/db/020_stat_metadaten.sql`, `uc3/db/030_bereinigt_stat.sql` |
 | | Optimum | versionierter Bestand über alle Lieferungen | **erfüllt** | Jede Lieferung bleibt. Fehlende Verhältnisse werden fortgeschrieben, nichts wird gelöscht (F9, F11). | Szene 3, Demo D1, `uc3/statagent/bereinigung.py` |
-| | Optimum | Pensionsmeldungen aller Träger trotz unterschiedlicher Formate eingelesen | **offen** | Nicht eingelesen. | Fragenkatalog C14 |
+| | Optimum | Pensionsmeldungen aller Träger trotz unterschiedlicher Formate eingelesen | **erfüllt** | 28 von 28 Dateien, 9 Formate, 394 Summen ohne Abweichung. 2025: 2.584.909, vorläufig bis zur Freigabe mit Namen. Öffentlich Bedienstete fehlen, die frühere BVA meldet keine. | `docs/uc3/pensionen-pruefbericht.md`, Fragenkatalog C14 |
 | 2 Klassifikation | Mindest | legt die benötigten Klassifikationen an, je Begriff nur einmal | **erfüllt** | Geschlecht, Region, Qualifikation, Kategorie, ÖNACE und Alter, je einmal. | `/uc3/klassifikationen`, `uc3/db/020_stat_metadaten.sql` |
 | | Optimum | ÖNACE bis zum 5-Steller und Regionen Österreichs vollständig historisiert | **teilweise** | ÖNACE 2008 und 2025 nur als Abschnitte (22 und 23), mit Gültigkeit. Regionen nur als Bundesländer. Gezählt wird kein 5-Steller, keine Bezirke, keine Gemeinden. | `/uc3/klassifikationen`, Szene 7 |
 | | Optimum | Übergänge aus den amtlichen Änderungslisten | **teilweise** | 1.180 Übergänge aus den amtlichen Umsteigern: 1.115 von ÖNACE 2008 nach 2025 auf der tiefsten Ebene, 65 auf Abschnitten, darunter 2003 nach 2008. Für Regionen keine. | `uc3/statagent/klass.py`, Tabelle `stat.uebergang` |
@@ -37,4 +37,3 @@ Die Karte zeigt nur, was auf `main` ist. Nach jedem dieser Merges die Zeile neu 
 
 - !193 (5-Steller, Bezirke, Gemeinden): Bereich 2, Bereich 4 Datenanfragen
 - !150 (unbekannte Live-Änderungen): Bereich 5 Live-Änderung
-- Pensionen (#77): Bereich 1

diff --git a/docs/praesentation/management-faq.md b/docs/praesentation/management-faq.md
@@ -73,7 +73,7 @@ Beleg: `abgabe/protokoll.md`, Abschnitt „Hinweise zu den Freigaben“ und Absc
 Beleg: F4 bis F11; `abgabe/protokoll.md`; `abgabe/rueckfragen/` (R1 bis R10); `docs/plan/uc3/annahmen.md`.
 
 **13. Was fehlt noch?**
-„Die Pensionsmeldungen sind nicht eingelesen. Klassifikationen zählen wir bis zum Abschnitt und Bundesland. Die Live-Änderung ist getippt, nicht gesprochen. Das steht alles offen auf unserer Karte.“
+„Bei den Pensionen fehlen die öffentlich Bediensteten, die frühere BVA meldet keine. Klassifikationen zählen wir bis zum Abschnitt und Bundesland. Die Live-Änderung ist getippt, nicht gesprochen. Das steht alles offen auf unserer Karte.“
 Beleg: `kriterien-karte.md`, Fragenkatalog C14. Vor dem Freeze mit `main` abgleichen.
 
 ## Betrieb und Regeln

diff --git a/docs/praesentation/uc3-jury.md b/docs/praesentation/uc3-jury.md
@@ -71,7 +71,7 @@ Bernhard nennt sie von sich aus oder auf Nachfrage und versteckt sie nicht.
 
 - Die Live-Änderung ist ein getippter Satz, keine gesprochene Eingabe.
 - Gezählt wird nach ÖNACE-Abschnitt und Bundesland (Kriterien-Karte, Bereich 2).
-- Die Pensionsmeldungen der Träger sind nicht eingelesen (Bereich 1).
+- Die Pensionen sind eingelesen, aber vorläufig bis zur Freigabe mit Namen, und ohne öffentlich Bedienstete: Die frühere BVA meldet keine (Bereich 1).
 - Wo Daten fehlen, gilt eine begründete Annahme mit Beleg, die Rückfrage ist dokumentiert (`abgabe/rueckfragen/`).
 - Zeitersparnis: nicht gemessen. Wir fragen zurück: „Wie lange dauert das bei Ihnen heute?“
 - Alle gesammelt: Fragenkatalog C14, `management-faq.md` Frage 13.
